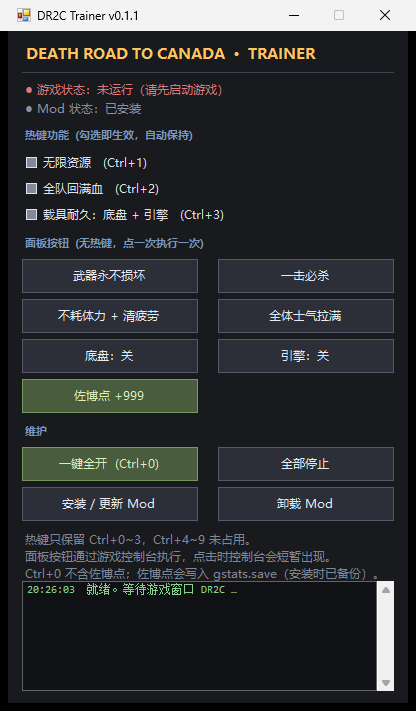
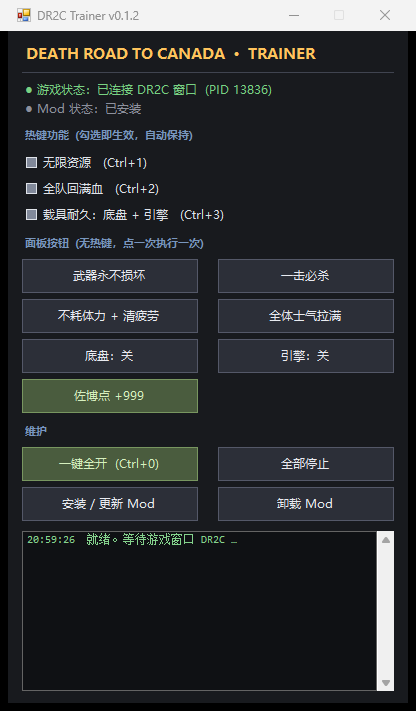
release: v0.1.2
Trim the panel's bottom hint text (moved to a tooltip on the Zombo button) and enlarge the log area; bump the title to 0.1.2 and refresh the panel screenshot. README (EN/ZH) version badge updated and docs/main-menu.png added to the repository layout.

diff --git a/README.md b/README.md
@@ -6,7 +6,7 @@
 No process injection · No memory editing · Effects last only for the current session</p>
 
 <p>
-  <a href="CHANGELOG.md"><img src="https://img.shields.io/badge/version-0.1.1-brightgreen?style=flat-square" alt="Version"></a>
+  <a href="CHANGELOG.md"><img src="https://img.shields.io/badge/version-0.1.2-brightgreen?style=flat-square" alt="Version"></a>
   <a href="LICENSE"><img src="https://img.shields.io/badge/license-MIT-blue?style=flat-square" alt="License"></a>
   <img src="https://img.shields.io/badge/platform-Windows%2010%20%7C%2011-lightgrey?style=flat-square" alt="Platform">
   <img src="https://img.shields.io/badge/PowerShell-5.1%2B-5391FE?style=flat-square&amp;logo=powershell&amp;logoColor=white" alt="PowerShell">
@@ -156,6 +156,7 @@ dr2c-trainer/
 │  ├─ panel.ps1                WinForms panel (embedded C#, compiled in memory)
 │  └─ unblock.ps1              batch unblock
 ├─ docs/
+│  ├─ main-menu.png            game main menu screenshot
 │  └─ panel.png                panel screenshot used by the README
 ├─ backup/                     save backups created on install (ignored by .gitignore)
 ├─ README.md                   English documentation (GitHub front page)

diff --git a/README.zh-CN.md b/README.zh-CN.md
@@ -6,7 +6,7 @@
 不注入进程 · 不修改内存 · 效果仅在当前游戏会话内有效</p>
 
 <p>
-  <a href="CHANGELOG.md"><img src="https://img.shields.io/badge/version-0.1.1-brightgreen?style=flat-square" alt="版本"></a>
+  <a href="CHANGELOG.md"><img src="https://img.shields.io/badge/version-0.1.2-brightgreen?style=flat-square" alt="版本"></a>
   <a href="LICENSE"><img src="https://img.shields.io/badge/license-MIT-blue?style=flat-square" alt="许可"></a>
   <img src="https://img.shields.io/badge/platform-Windows%2010%20%7C%2011-lightgrey?style=flat-square" alt="平台">
   <img src="https://img.shields.io/badge/PowerShell-5.1%2B-5391FE?style=flat-square&amp;logo=powershell&amp;logoColor=white" alt="PowerShell">
@@ -157,6 +157,7 @@ dr2c-trainer/
 │  ├─ panel.ps1                WinForms 面板（C# 内嵌，内存编译）
 │  └─ unblock.ps1              批量解除锁定
 ├─ docs/
+│  ├─ main-menu.png            游戏主界面截图
 │  └─ panel.png                面板截图，供 README 使用
 ├─ backup/                     安装时自动生成的存档备份（已在 .gitignore 中忽略）
 ├─ README.md                   英文说明（GitHub 主页）

diff --git a/CHANGELOG.md b/CHANGELOG.md
@@ -4,6 +4,19 @@
 
 格式参考 [Keep a Changelog](https://keepachangelog.com/zh-CN/1.1.0/)，版本号遵循 [语义化版本](https://semver.org/lang/zh-CN/)。
 
+## [0.1.2] - 2026-11-26
+
+### Changed
+
+- 面板删除底部三行说明文字（热键只保留 `Ctrl+0`~`3`、面板按钮经游戏控制台执行、`Ctrl+0` 不含佐博点），界面更整洁
+- 佐博点写存档的说明改为按钮悬停提示：「会写入 gstats.save（安装时已备份）」
+- 删除说明文字后日志区上移并加高，标题版本号改为 0.1.2
+- README（中/英）版本徽章更新为 0.1.2，面板截图重拍
+
+### Notes
+
+- 功能、热键与 0.1.1 完全一致，仅界面文案调整
+
 ## [0.1.1] - 2026-11-26
 
 ### Added
